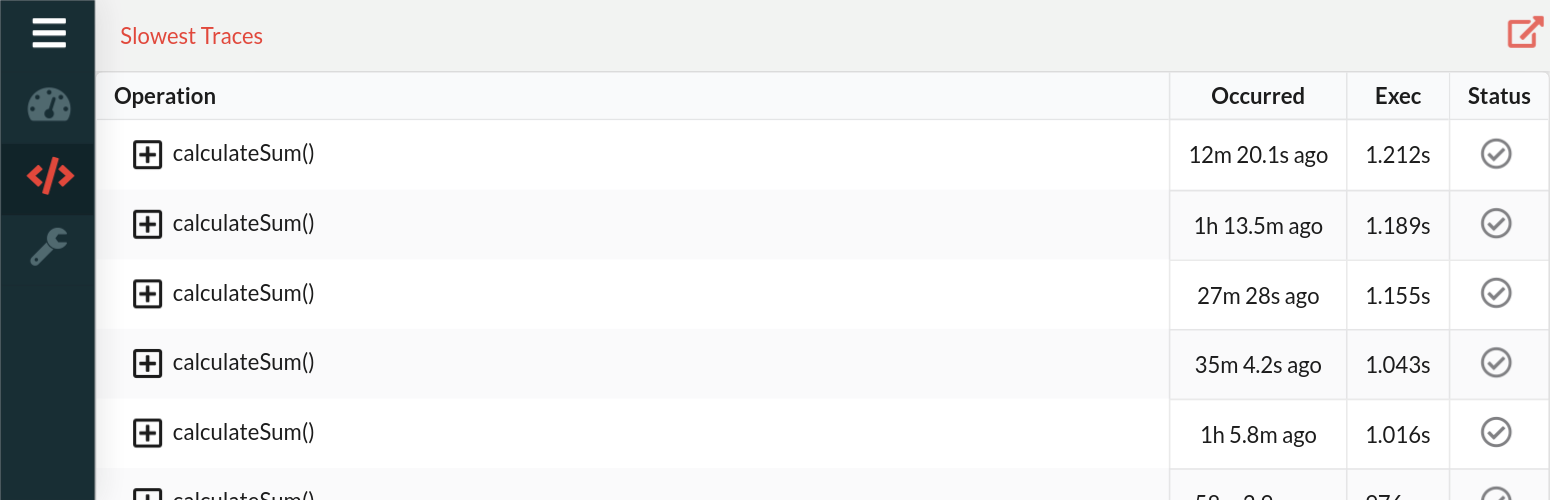
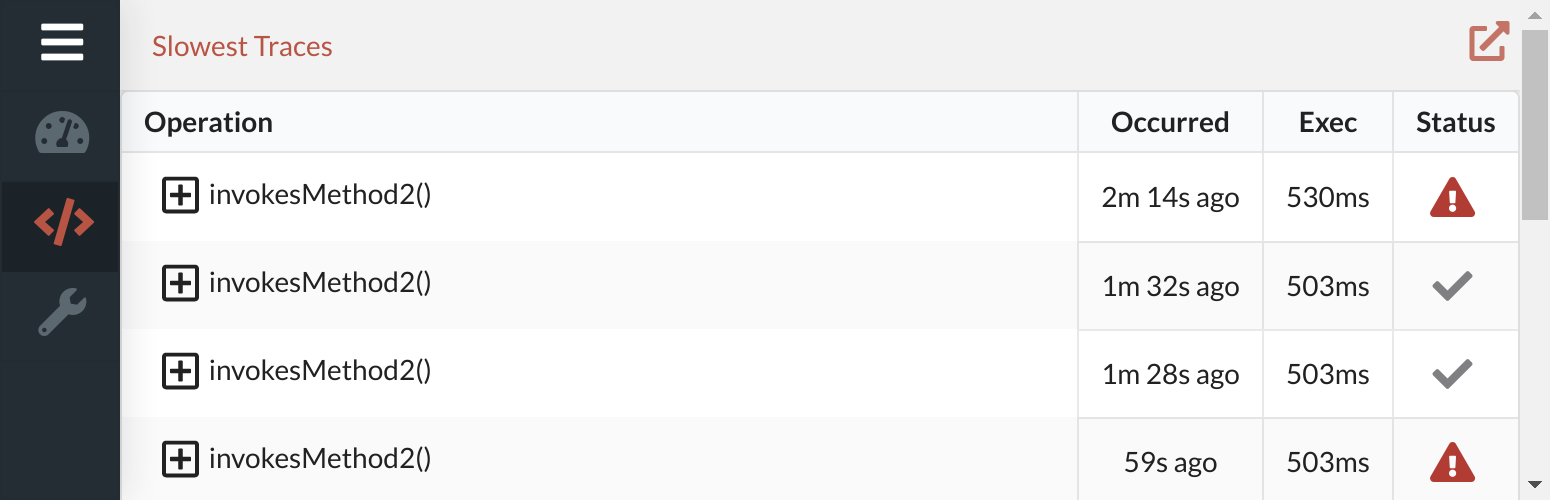
docs

diff --git a/docs/markdown/02-general/01-architecture.md b/docs/markdown/02-general/01-architecture.md
@@ -1,22 +1,15 @@
 # Architectural Overview
 
-![](../../images/Source%2B%2B%20Architectural%20Overview-v0.1.0-alpha.gif)
+![](../../images/augments/irp/Integrated-Runtime-Performance.jpg)
 
 1. Developer(s) write application code
-2. Application is deployed with the Source++ Agent using Apache SkyWalking
-3. Developer(s) determine which artifacts to subscribe to and send requests to Source++ Core
-4. Source++ Core updates Source++ Agent to begin tracing subscribed artifacts
-5. APM agent sends operation data to APM collector which is integrated with Source++ Core
-6. Relevant source artifact data is extracted from APM collector and sent to Source++ Plugin
-7. Developer(s) hover mouse over S++ mark to view Overview tab for artifact's live metrics
-8. Developer(s) hover mouse over S++ mark to view Traces tab for artifact's live traces
-9. Developer(s) continue developing application with the ability to easily view and improve performance in production
+1. Application is deployed with the Apache SkyWalking Agent attached
+1. APM agent sends operation data to APM collector which is integrated with Source++ Core
+1. Relevant source artifact data is extracted from APM collector and sent to Source++ Plugin
+1. Developer(s) activate S++ mark to view live artifact metrics and traces
+1. Developer(s) continue developing application with the ability to easily view and improve performance in production
 
 # Source++ Components
-
-## ~~Source++ Agent~~
-
-~~The Source++ Agent is used to monitor and gather application data. The agent relies heavily on [Apache SkyWalking](https://github.com/apache/incubator-skywalking) for the metrics and traces it gathers. The agent is primarily used to control the installation/un-installation of plugins and provide additional dynamic functionality to the Apache SkyWalking agent.~~
 
 ## Source++ Core
 
@@ -36,7 +29,7 @@ The portal currently contains three tabs:
 
 The overview tab displays general artifact statistics to gather an overall view of a source code artifact's runtime behavior. 
 
-![](../../images/portal/overview_last_15_minutes.png)
+![](../../images/portal/overview_last_5_minutes.png)
 
 ### Traces
 
@@ -49,6 +42,18 @@ The traces tab is used to navigate gathered distributed traces. The traces tab i
 #### Slowest Traces
 
 ![](../../images/portal/slowest_traces.png)
+
+#### Failed Traces
+
+![](../../images/portal/failed_traces.png)
+
+#### Trace Stack
+
+![](../../images/portal/trace_stack.png)
+
+#### Span Info
+
+![](../../images/portal/span_info.png)
 
 ### Configuration
 
